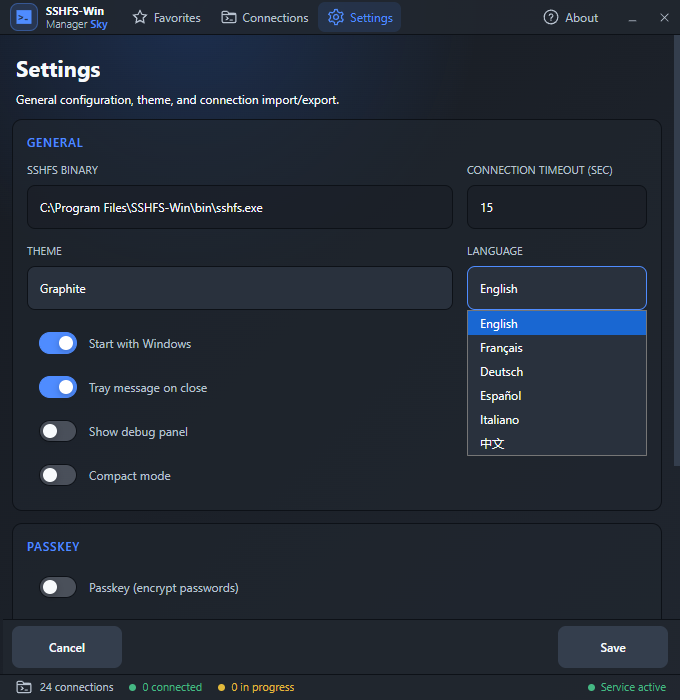
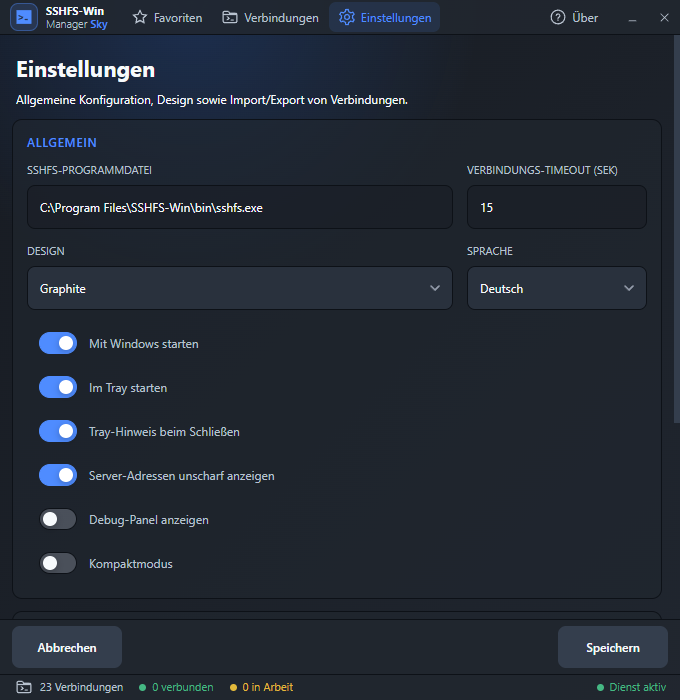
docs: new README with full-width blurred screenshots
Structure follows Evo/original READMEs; Fable 5 transparency note
up top. Screenshots use the new address-blur setting.

diff --git a/README.md b/README.md
@@ -1,34 +1,89 @@
 # SSHFS-Win Manager Sky
 
-Mount remote SSH/SFTP folders as local Windows drives — in one clean, compact window.
+A clean, single-window GUI for mounting remote SSH/SFTP folders as local Windows drives with SSHFS.
 
-Sky is a redesign of [SSHFS-Win Manager Evo](https://github.com/emulsion-io/sshfs-win-manager-evo) by Fabrice Simonet, based on the original [SSHFS-Win Manager](https://github.com/evsar3/sshfs-win-manager) by Evandro Araujo.
+**Sky Edition** is a redesign of [SSHFS-Win Manager Evo](https://github.com/emulsion-io/sshfs-win-manager-evo) by Fabrice Simonet, based on the original [SSHFS-Win Manager](https://github.com/evsar3/sshfs-win-manager) by Evandro Araujo.
+
+> **Transparency:** This edition was built in an open AI pair-programming workflow with Claude (Fable 5, Anthropic).
 
 ## Screenshots
 
-| Connections | Settings | Compact mode |
-|---|---|---|
-| ![Connections](imgs/sky-connections.png) | ![Settings](imgs/sky-settings.png) | ![Compact](imgs/sky-compact.png) |
+<p align="center">
+  <img src="imgs/sky-connections.png" alt="Connections view with inline details" width="100%">
+</p>
+
+*Connections — click a server to unfold its details and actions inline.*
+
+<p align="center">
+  <img src="imgs/sky-connection-form.png" alt="Add & edit connections inside the same window" width="100%">
+</p>
+
+*Add & edit connections — opens inside the same window, no popups.*
+
+<p align="center">
+  <img src="imgs/sky-settings.png" alt="Settings" width="100%">
+</p>
+
+*Settings — theme, language, tray behavior, passkey encryption, address blur.*
+
+<p align="center">
+  <img src="imgs/sky-compact.png" alt="Compact mode" width="60%">
+</p>
+
+*Compact mode — 440 px wide with icon tabs, made to sit at the edge of your screen.*
 
 ## What's different from Evo
 
 Evo modernized the original app; Sky rethinks how it looks and feels:
 
 - **One window for everything.** Frameless, fixed-size, with a top tab bar and a slim status bar. Connection details, adding and editing all happen inline — no popup windows, no side panels.
-- **Compact mode.** Shrinks to 440 px with icon-only tabs, made to sit docked at the edge of your screen.
-- **Quieter design.** Small native-utility feel instead of a website in a window: compact cards, restrained highlights, drag the window from anywhere.
-- **Optional password encryption.** The passkey can now be switched on or off in Settings — your choice between convenience and encrypted storage.
+- **Compact mode** for keeping the app docked at the edge of your screen.
+- **Quieter design.** Small native-utility feel instead of a website in a window; drag the window from anywhere.
+- **Optional password encryption.** The passkey can be switched on or off in Settings — your choice between convenience and encrypted storage.
+- **Privacy on screen.** Optionally blur server addresses in the UI (hover to reveal) — handy for screenshots and screen sharing.
+- **Tray control.** Choose whether the app starts hidden in the tray with Windows, and get a real notification when closing to tray.
 - **More languages.** German, Spanish, Italian and Chinese added to English and French.
 - **Seamless switch.** On first start, your Evo connections and settings are migrated automatically.
 
-Everything that made Evo solid — encrypted password storage, the full range of SSH authentication modes, reliable auto-connect, favorites, import/export, tray operation — is untouched underneath.
+## Features
 
-## Install
+Everything that made Evo solid is untouched underneath:
 
-1. Install [SSHFS-Win](https://github.com/winfsp/sshfs-win) (includes WinFsp).
-2. Download the installer from [Releases](https://github.com/2ndSky95/sshfs-win-manager-sky/releases) and run it.
+- Mount remote SSH/SFTP folders via SSHFS, with automatic free drive letter assignment.
+- Favorites, search, sorting and reordering, custom per-connection icons.
+- Open a connection directly in a terminal (`>_` button) — Tabby if installed, otherwise the system terminal. One-click copy of the equivalent `ssh` command.
+- Auto-connect at startup, executed sequentially to avoid collisions; automatic reconnect option.
+- JSON import/export of connections, import of legacy SSHFS-Win Manager configurations.
+- IPv6 support, advanced SSHFS command-line options, themes, debug panel with connection logs.
+- Runs in the system tray, starts with Windows.
 
-Coming from Evo? Install Sky, check that your connections are there, then uninstall Evo.
+### Authentication modes
+
+- Private Key
+- Private Key + Passphrase
+- Private Key + PAM/OTP
+- Private Key + Passphrase + PAM/OTP
+- Password
+- Password (ask on connect)
+- PAM/OTP only (no key)
+
+PAM/OTP modes use `keyboard-interactive` and work with PAM, TOTP, Radius or MFA setups. Secrets entered in connection prompts are never written to the configuration.
+
+### Password security
+
+Stored passwords are encrypted with `AES-256-GCM`, using a key derived from a global passkey via `scrypt`. The passkey itself is never stored; you choose how long it is kept in memory (always ask, 1 hour, 12 hours, 1 day, 2 days). Legacy plain-text passwords are migrated automatically.
+
+If you prefer convenience over encryption, the passkey can be turned off in Settings — passwords are then stored in plain text, with an explicit warning.
+
+## Installation
+
+**Step 1** — Install [SSHFS-Win](https://github.com/winfsp/sshfs-win) (includes WinFsp). Follow their installation instructions.
+
+**Step 2** — Download the latest installer from [Releases](https://github.com/2ndSky95/sshfs-win-manager-sky/releases) and run it.
+
+**Step 3** — Add your connections and enjoy!
+
+Coming from Evo? Install Sky, check that your connections are there, then uninstall Evo (otherwise two tray apps run in parallel).
 
 ## Build from source
 
@@ -42,6 +97,6 @@ npm run build:win  # NSIS installer in build/
 
 - Original: [SSHFS-Win Manager](https://github.com/evsar3/sshfs-win-manager) — Evandro Araujo
 - Evo: [SSHFS-Win Manager Evo](https://github.com/emulsion-io/sshfs-win-manager-evo) — Fabrice Simonet ([emulsion.io](https://emulsion.io))
-- Sky: [4-sky.de](https://4-sky.de)
+- Sky: [4-sky.de](https://4-sky.de), built with Claude (Fable 5)
 
 MIT license. Original copyright and license notices are preserved.